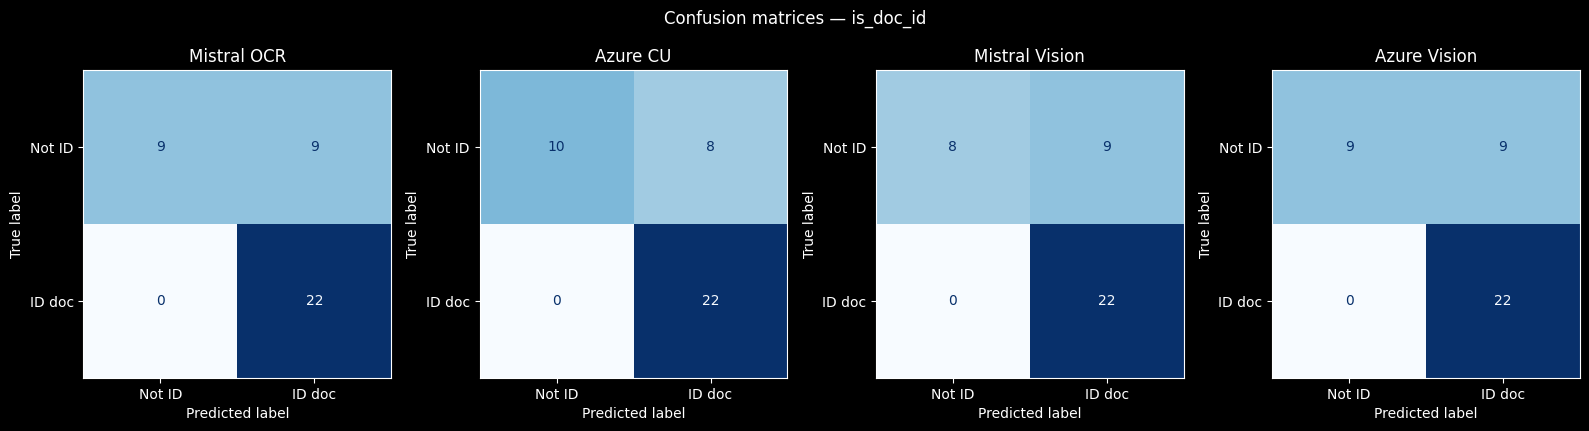
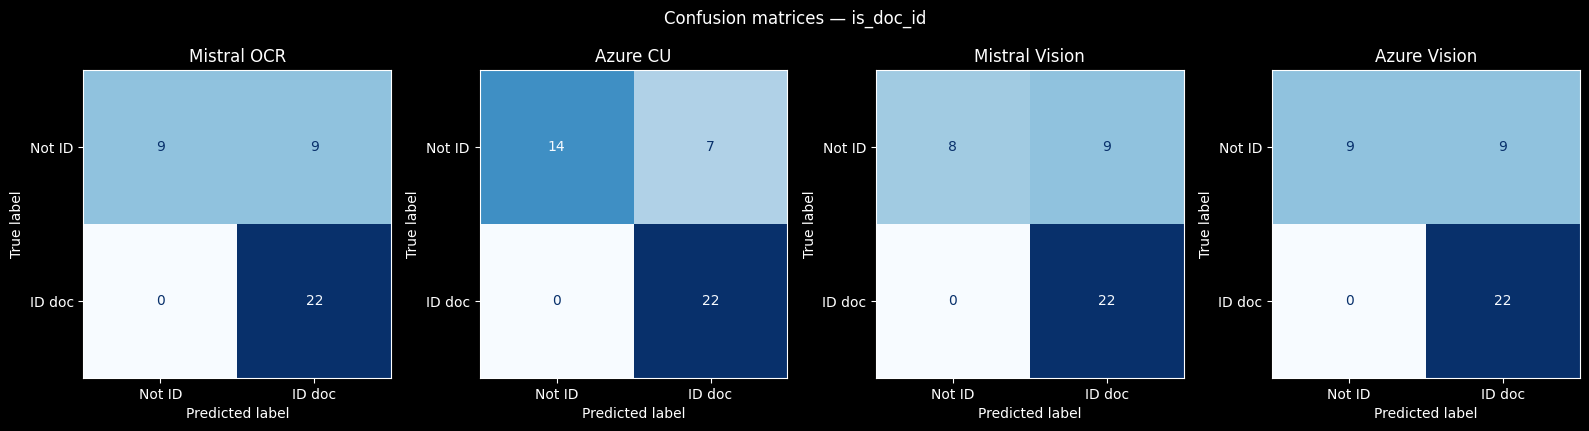
add pdf files

Changed region(s): [[0.2775, 0.1508, 0.4009, 0.5429]]

diff --git a/README.md b/README.md
@@ -19,15 +19,15 @@ Overview de la solution, l'application 'data science' créée dans ce repo.
 
 ![docs/img.png](docs/img.png)
 
-### Conclusion — Performance des modèles sur `is_doc_id`
+## Conclusion — Performance des modèles sur `is_doc_id`
 
-L'analyse porte sur **40 fichiers** labellisés (22 documents d'identité, 18 non-identité), évalués sur les **quatre modèles** — tous ont produit des prédictions complètes, sauf Mistral Vision (n=39, une prédiction manquante).
+L'analyse porte sur **43 fichiers** labellisés (22 documents d'identité, 21 non-identité). Azure CU couvre l'ensemble du dataset (n=43) ; Mistral OCR et Azure Vision en couvrent 40, Mistral Vision 39 (prédictions manquantes sur certains fichiers).
 
 ### Résultats
 
 | Modèle | n | Accuracy | Precision | Recall | F1 | MCC | TP | TN | FP | FN |
 |---|---|---|---|---|---|---|---|---|---|---|
-| **Azure CU** | **40** | **0.80** | **0.73** | **1.00** | **0.85** | **0.64** | 22 | 10 | 8 | 0 |
+| **Azure CU** | **43** | **0.84** | **0.76** | **1.00** | **0.86** | **0.71** | 22 | 14 | 7 | 0 |
 | Mistral OCR | 40 | 0.78 | 0.71 | 1.00 | 0.83 | 0.60 | 22 | 9 | 9 | 0 |
 | Azure Vision | 40 | 0.78 | 0.71 | 1.00 | 0.83 | 0.60 | 22 | 9 | 9 | 0 |
 | Mistral Vision | 39 | 0.77 | 0.71 | 1.00 | 0.83 | 0.58 | 22 | 8 | 9 | 0 |
@@ -36,24 +36,17 @@ L'analyse porte sur **40 fichiers** labellisés (22 documents d'identité, 18 no
 
 **Recall parfait (1.00) sur les quatre modèles** — aucun document d'identité réel n'est manqué. C'est la propriété la plus critique en vérification documentaire : un faux négatif représente un risque métier majeur.
 
-**Azure CU est le meilleur modèle** (F1 = 0.85, MCC = 0.64, 8 FP), devançant Mistral OCR et Azure Vision à égalité (F1 = 0.83, MCC = 0.60, 9 FP). Mistral Vision est légèrement en retrait (MCC = 0.58) et compte une prédiction manquante.
+**Azure CU est nettement le meilleur modèle** (F1 = 0.86, MCC = 0.71, 7 FP sur 43 fichiers), avec un avantage clair sur les trois autres modèles (F1 = 0.83, MCC = 0.58–0.60, 9 FP). Azure CU est aussi le seul à avoir analysé la totalité du dataset sans prédictions manquantes.
 
-**Tous les faux positifs proviennent du dossier `false_id`** — images de documents d'identité trouvées sur Internet. Ces visuels ressemblent à de vrais documents (résolution acceptable, structure visible) : le modèle réagit à l'apparence du document, pas à son authenticité. C'est un biais structurel du jeu de données, pas une erreur de modèle.
+**Tous les faux positifs proviennent des dossiers `false_id` et `false_doc`** — images de documents d'identité trouvées sur Internet, ou documents administratifs visuellement proches. Les modèles réagissent à l'apparence visuelle du document, pas à son authenticité. C'est un biais structurel du jeu de données. Les 7 FP d'Azure CU sont tous dans `false_id` ; Mistral OCR étend ses erreurs à un fichier `false_doc` supplémentaire.
 
-**MCC entre 0.58 et 0.64** — performance correcte mais en deçà du seuil recommandé pour la production (> 0.80). L'écart entre les modèles est faible : l'approche OCR n'apporte pas d'avantage décisif sur la vision pure pour cette tâche binaire.
-
-### Limites
-
-- **Dataset petit** (n=40) — les métriques sont sensibles à 1 ou 2 exemples (1 FP de moins = +0.04 MCC).
-- **`false_id` ambiguë** — images de documents web, pas des faux documents réels. Les FP sur cette catégorie ne reflètent pas forcément le comportement en production.
-- **3 fichiers non analysés** — les documents CORUM et l'attestation PDF ne figurent pas dans `results.csv`.
+**MCC entre 0.58 et 0.71** — Azure CU atteint un niveau correct (0.71) tandis que les autres modèles restent en deçà du seuil recommandé pour la production (> 0.80). L'approche OCR structurée d'Azure CU apporte ici un gain mesurable par rapport à la vision pure.
 
 ### Recommandations
 
-1. **Azure CU à privilégier** pour les déploiements, avec 1 FP de moins que les autres modèles.
-2. **Étendre le dataset** avec des cas négatifs réels (factures, relevés bancaires) pour confirmer la robustesse — les 9 faux positifs actuels sont tous des images de documents.
+1. **Azure CU à privilégier** : meilleur MCC (0.71 vs 0.60), moins de faux positifs (7 vs 9), couverture complète du dataset.
+2. **Étendre le dataset** avec des cas négatifs réels (factures, relevés bancaires) pour confirmer la robustesse — les faux positifs actuels sont tous des images de documents d'identité.
 3. **Exploiter `id_doc_type`** comme filtre secondaire (passeport vs carte d'identité) pour affiner la décision au-delà du booléen.
-
 
 ## Métriques d'évaluation — rappel
 
